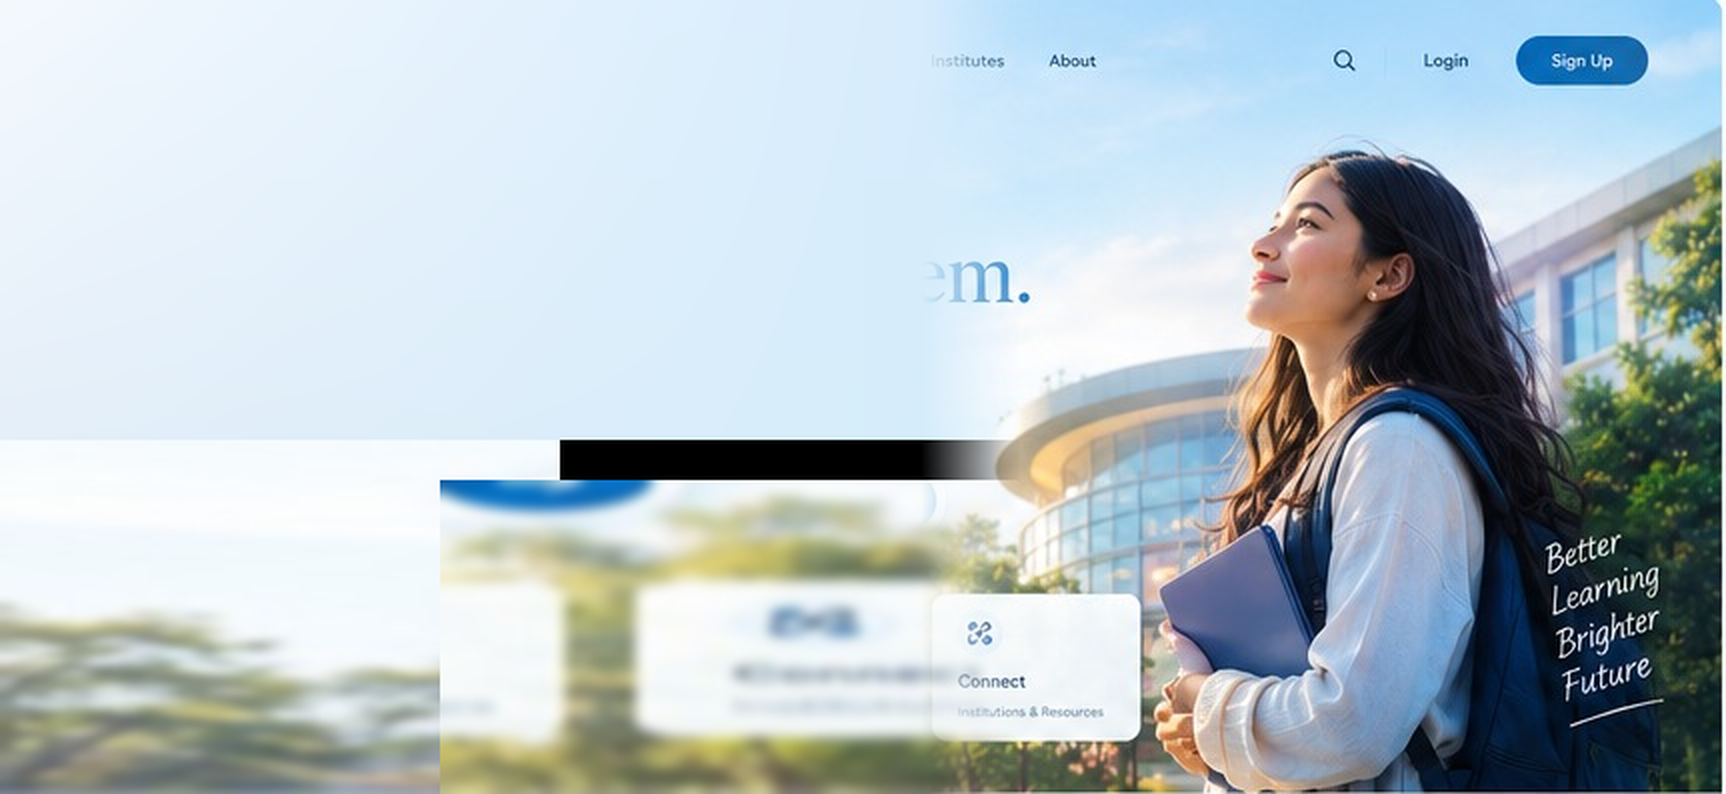
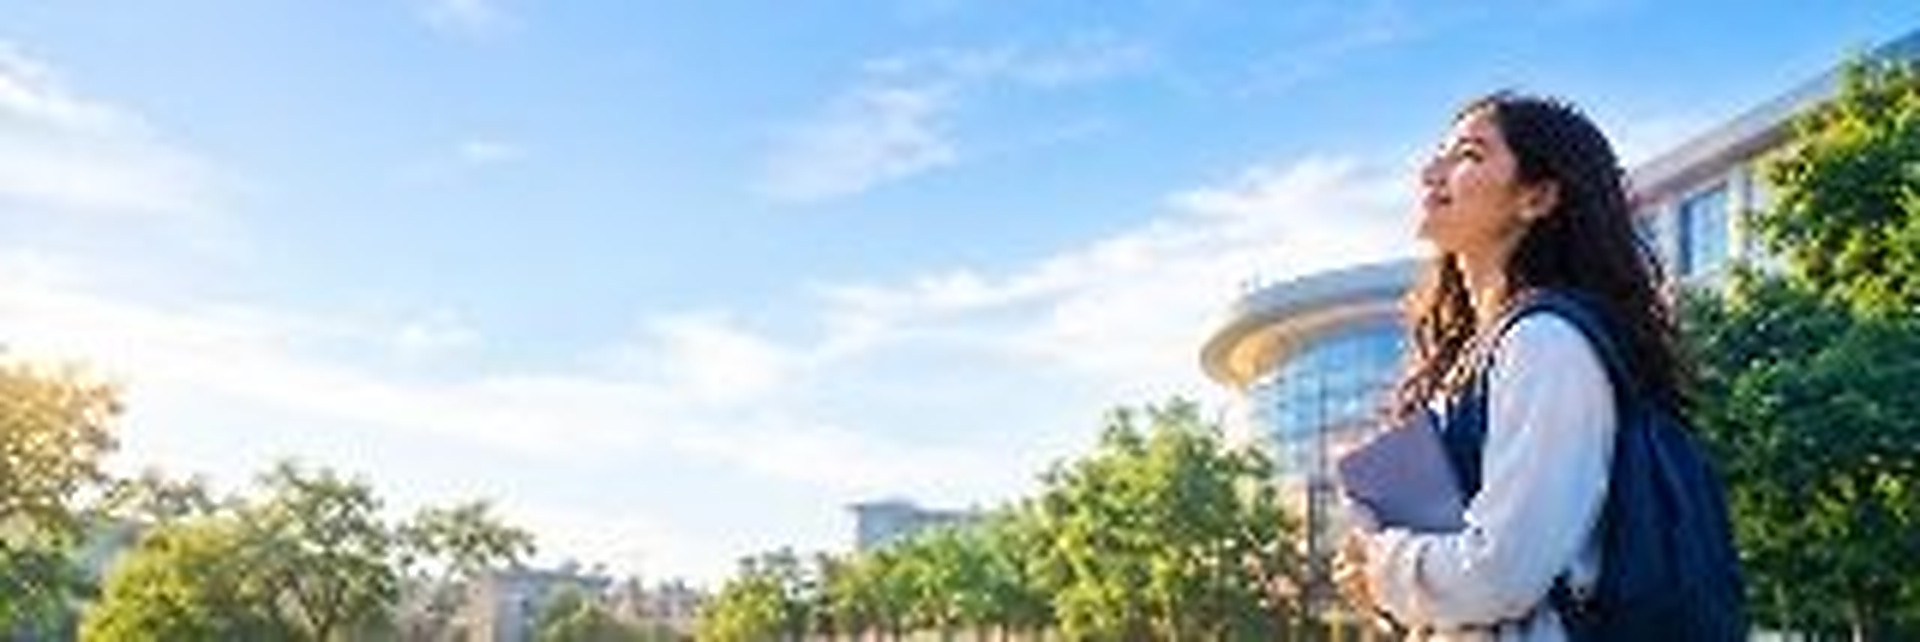
Apply user attached background photograph to hero section

diff --git a/src/components/EduvaLanding.tsx b/src/components/EduvaLanding.tsx
@@ -116,15 +116,15 @@ export const EduvaLanding: React.FC<EduvaLandingProps> = ({
       {/* PURE VECTOR & ULTRA-HIGH-RESOLUTION HERO CONTAINER                        */}
       {/* ========================================================================= */}
       <section className="relative w-full max-w-[1360px] mx-auto rounded-3xl overflow-hidden bg-white shadow-sm border border-slate-100 flex flex-col justify-between min-h-[580px] lg:min-h-[620px]">
-        {/* The Clean Photography Backdrop (Matches 01_homepage_full exactly) */}
+        {/* The Clean Photography Backdrop from User's Image */}
         <div className="absolute inset-0 z-0">
           <img
             src="/assets/hero_campus_student.png"
             alt="Campus Student"
-            className="w-full h-full object-cover object-center"
+            className="w-full h-full object-cover object-[82%_center]"
           />
-          {/* Subtle natural contrast scrim for left typography */}
-          <div className="absolute inset-0 bg-gradient-to-r from-white/35 via-transparent to-transparent pointer-events-none" />
+          {/* Soft natural gradient on left to guarantee crisp readability */}
+          <div className="absolute inset-0 bg-gradient-to-r from-white/70 via-white/20 via-48% to-transparent pointer-events-none" />
         </div>
 
         {/* Embedded Top Navigation Bar */}
@@ -201,7 +201,16 @@ export const EduvaLanding: React.FC<EduvaLandingProps> = ({
           </div>
         </div>
 
-        {/* Script text is baked into the high-res backdrop naturally */}
+        {/* Script Text over Student (Right Side) */}
+        <div className="absolute right-6 sm:right-10 lg:right-14 bottom-24 sm:bottom-28 lg:bottom-32 z-10 text-right pointer-events-none select-none hidden md:block">
+          <div className="font-script text-2xl sm:text-3xl lg:text-[32px] text-white/95 leading-[1.15] tracking-wide drop-shadow-[0_2px_8px_rgba(0,0,0,0.65)] transform -rotate-2">
+            <div>Better</div>
+            <div>Learning</div>
+            <div>Brighter</div>
+            <div>Future</div>
+            <div className="w-16 ml-auto mt-1 border-b-2 border-white/90 shadow-sm"></div>
+          </div>
+        </div>
 
         {/* Bottom Stats & Community Bar */}
         <div className="relative z-10 w-full bg-[#f4f9fd] border-t border-[#d8e6f2] py-4 sm:py-5 px-6 sm:px-10 lg:px-12">
